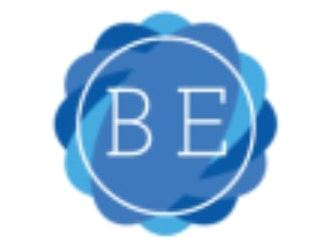
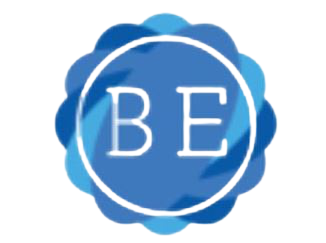
updated the background

diff --git a/index.html b/index.html
@@ -4,7 +4,7 @@
 <head>
     <meta charset="UTF-8">
     <meta name="viewport" content="width=device-width, initial-scale=1.0">
-    <link rel="icon" href="/images/batul.JPG" type="image/gif" sizes="16x16">
+    <link rel="icon" href="/images/batul.jpg" type="image/gif" sizes="16x16">
     <link href="https://unpkg.com/tailwindcss@^2/dist/tailwind.min.css" rel="stylesheet">
     <link rel="stylesheet" href="https://cdnjs.cloudflare.com/ajax/libs/font-awesome/4.7.0/css/font-awesome.min.css">
     <title>Batul Engineering</title>
@@ -20,7 +20,7 @@
 
     <header class="text-gray-800 body-font">
         <div class="container mx-auto flex flex-wrap p-5 flex-col md:flex-row items-center">
-            <img src="/images/batul.JPG" alt="" style="width:64px;height:50px;">
+            <img src="/images/batul.jpg" alt="" style="width:64px;height:50px;">
             <a class="flex title-font font-medium items-center text-gray-900 mb-4 md:mb-0">
                 
                 <a style="color:#2c6bca ;font-weight: bolder;font-size:xx-large; font-family: 'Trebuchet MS', 'Lucida Sans Unicode', 'Lucida Grande', 'Lucida Sans', Arial, sans-serif;" href="/" class="ml-3 text-xl"><strong>Batul Engineering</strong> </a>

diff --git a/Products.html b/Products.html
@@ -4,7 +4,7 @@
 <head>
     <meta charset="UTF-8">
     <meta name="viewport" content="width=device-width, initial-scale=1.0">
-    <link rel="icon" href="/images/batul.JPG" type="image/gif" sizes="16x16">
+    <link rel="icon" href="/images/batul.jpg" type="image/gif" sizes="16x16">
     <link href="https://unpkg.com/tailwindcss@^2/dist/tailwind.min.css" rel="stylesheet">
     <link rel="stylesheet" href="https://cdnjs.cloudflare.com/ajax/libs/font-awesome/4.7.0/css/font-awesome.min.css">
     <title>Document</title>

diff --git a/contact.html b/contact.html
@@ -4,7 +4,7 @@
 <head>
     <meta charset="UTF-8">
     <meta name="viewport" content="width=device-width, initial-scale=1.0">
-    <link rel="icon" href="/images/batul.JPG" type="image/gif" sizes="16x16">
+    <link rel="icon" href="/images/batul.jpg" type="image/gif" sizes="16x16">
     <link href="https://unpkg.com/tailwindcss@^2/dist/tailwind.min.css" rel="stylesheet">
     <link rel="stylesheet" href="https://cdnjs.cloudflare.com/ajax/libs/font-awesome/4.7.0/css/font-awesome.min.css">
     <title>Document</title>
